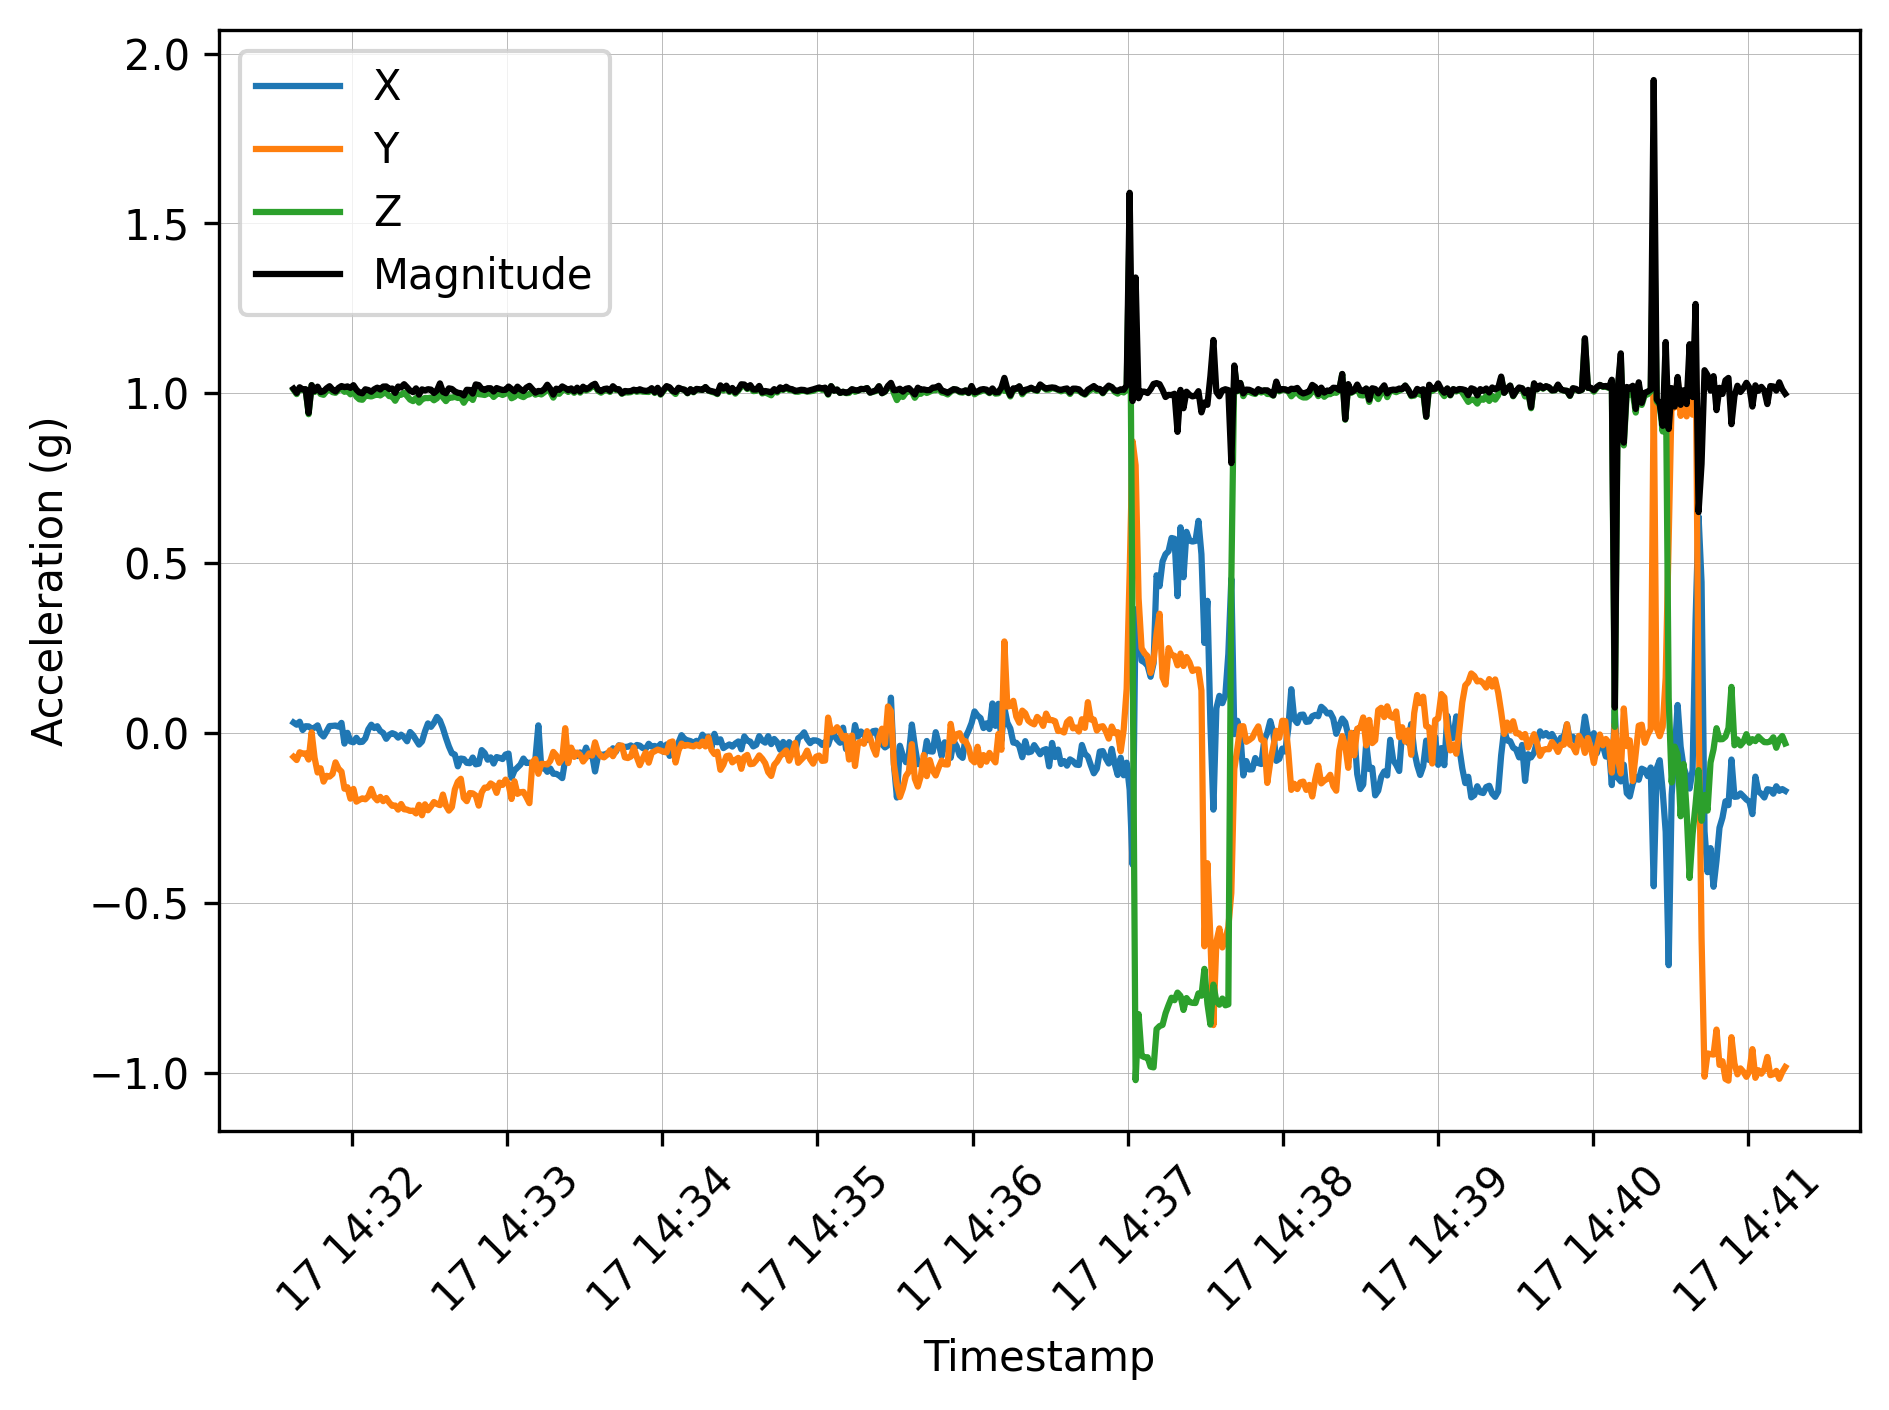
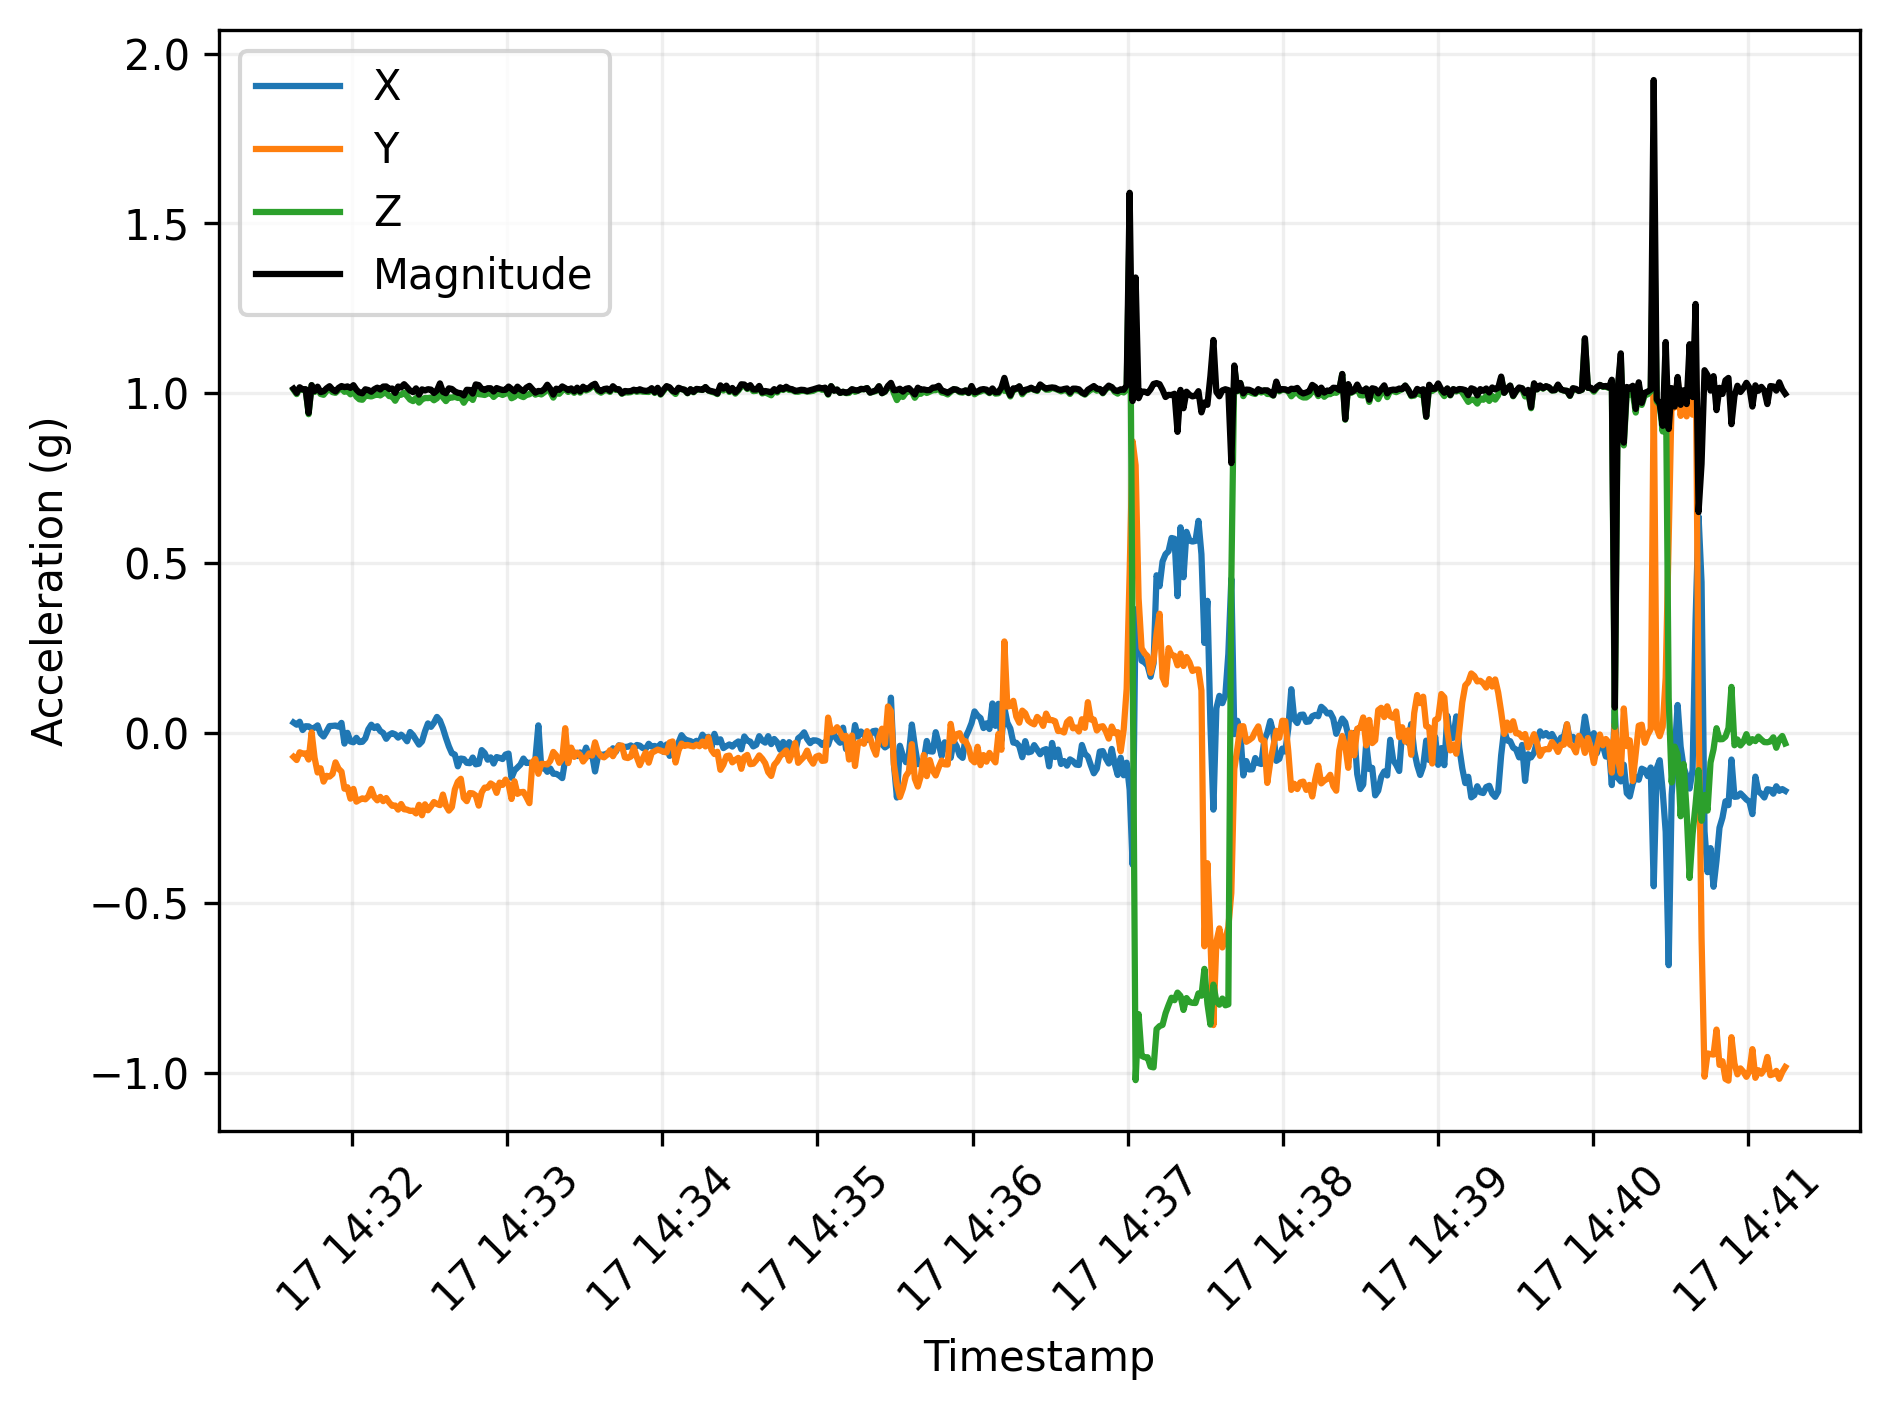
Define grid style using using alpha instead of linewidth

diff --git a/data/data_plot.py b/data/data_plot.py
@@ -28,7 +28,7 @@ def draw_acceleration(data, start=None, end=None, interval=None, output_file=Non
     plt.ylabel("Acceleration (g)")
     plt.tight_layout()
     plt.legend()
-    plt.grid(linewidth = 0.2)
+    plt.grid(alpha=0.2)
     if output_file:
         plt.savefig(output_file, dpi=300, transparent=False, bbox_inches='tight')
     plt.show()
@@ -49,7 +49,7 @@ def draw_pressure(data, start=None, end=None, interval=None, output_file=None):
     plt.xlabel("Timestamp")
     plt.ylabel("Pressure (Pa)")
     plt.tight_layout()
-    plt.grid(linewidth = 0.2)
+    plt.grid(alpha=0.2)
     if output_file:
         plt.savefig(output_file, dpi=300, transparent=False, bbox_inches='tight')
     plt.show()
@@ -143,7 +143,7 @@ def draw_ultrasonic(data, start=None, end=None, interval=None, output_file=None)
     plt.ylabel("Ultrasonic (ms)")
     plt.tight_layout()
     plt.legend()
-    plt.grid(linewidth = 0.2)
+    plt.grid(alpha=0.2)
     if output_file:
         plt.savefig(output_file, dpi=300, transparent=False, bbox_inches='tight')
     plt.show()
